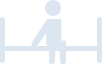
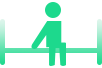
build master 9.6体动离床ok

diff --git a/controller/SencondTurnViewController.m b/controller/SencondTurnViewController.m
@@ -277,7 +277,7 @@
     if (_leaveImage==nil) {
         _leaveImage = [[UIImageView alloc]init];
         //                       WithFrame:CGRectMake(100, 0, 51, 34)];
-        _leaveImage.image = [UIImage imageNamed:[NSString stringWithFormat:@"ic_getup_%d",selectedThemeIndex]];
+        _leaveImage.image = [UIImage imageNamed:[NSString stringWithFormat:@"ic_body_movement_%d",selectedThemeIndex]];
     }
     return _leaveImage;
 }
@@ -414,7 +414,7 @@
 - (void)reloadThemeImage
 {
     [super reloadThemeImage];
-    _leaveImage.image = [UIImage imageNamed:[NSString stringWithFormat:@"ic_getup_%d",selectedThemeIndex]];
+    _leaveImage.image = [UIImage imageNamed:[NSString stringWithFormat:@"ic_body_movement_%d",selectedThemeIndex]];
     _circleSleepView.backgroundColor = selectedThemeIndex==0?[self colorWithHex:0x0e254c alpha:1]:[self colorWithHex:0x5e8abe alpha:1];
     _circleTitle.textColor = selectedThemeIndex == 0?DefaultColor:[UIColor whiteColor];
     _circleSubTitle.textColor = selectedThemeIndex == 0?DefaultColor:[UIColor whiteColor];
